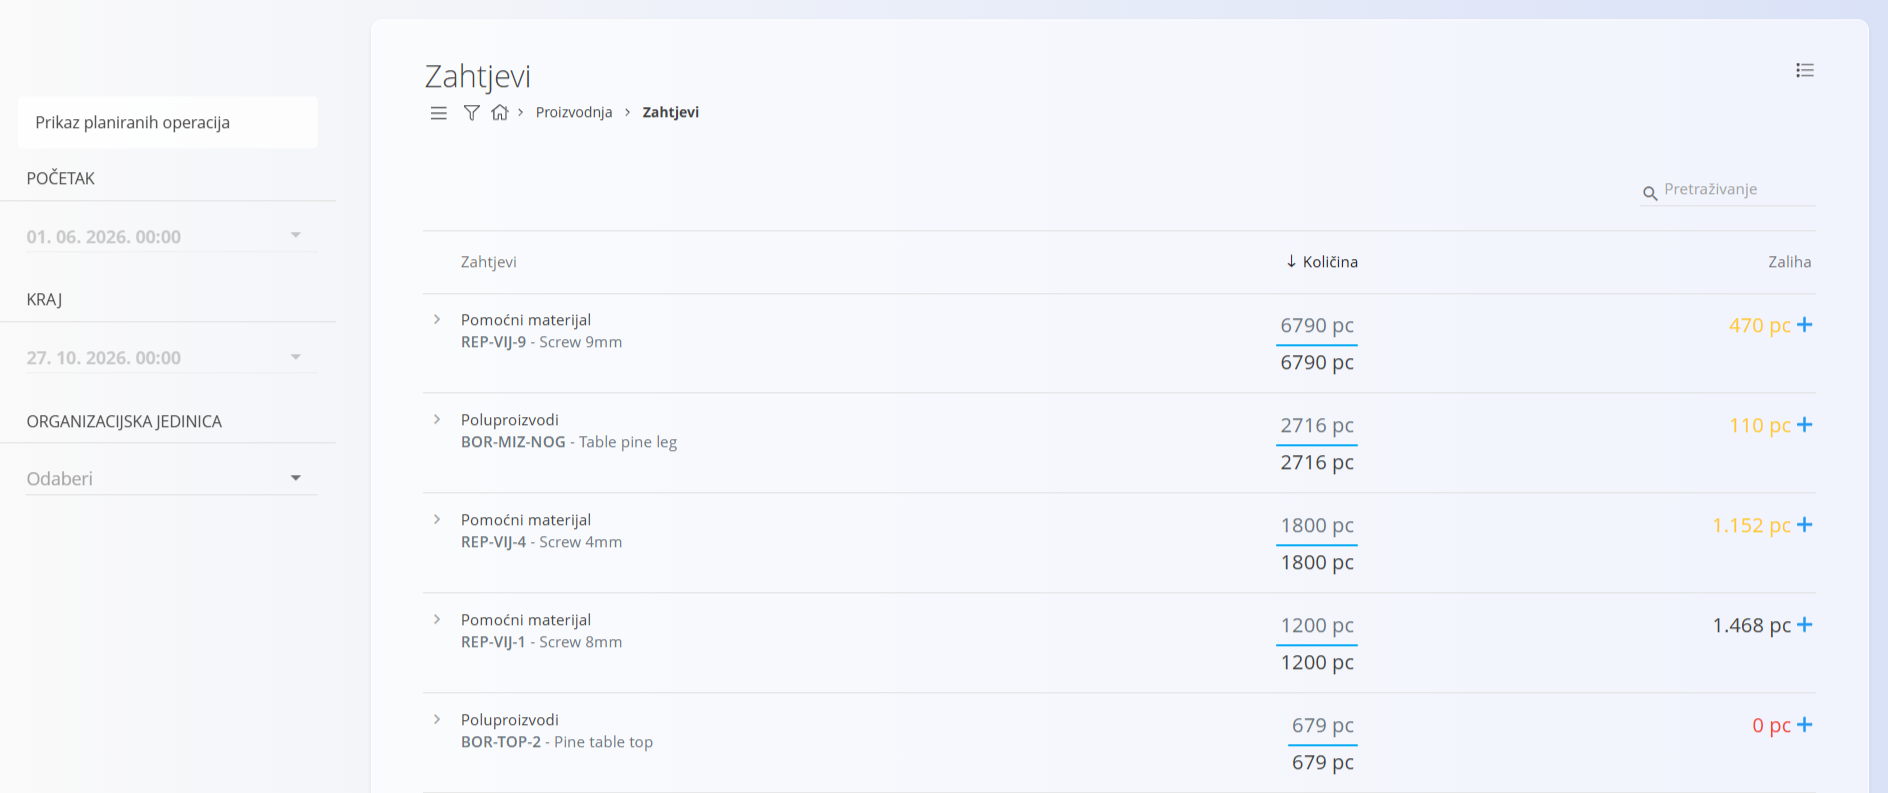
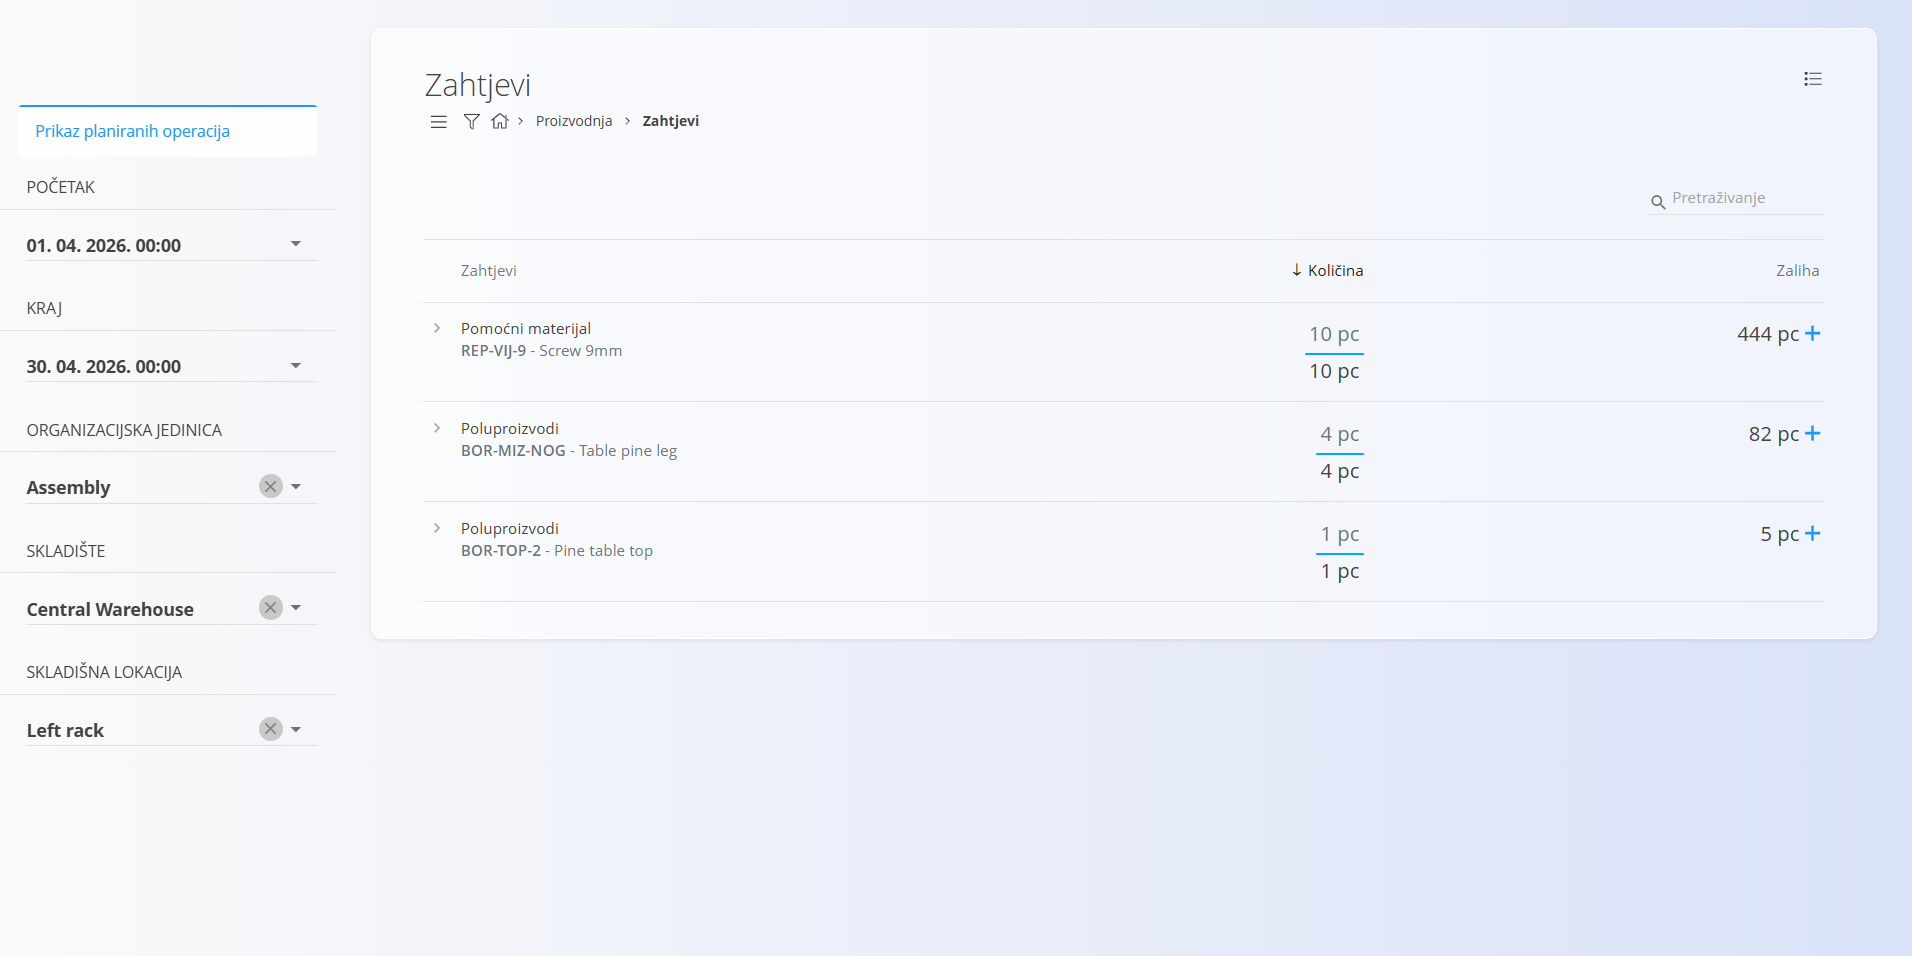
docs(en,sl,hr): document warehouse filters on requirements
Requirements now include Warehouse and Warehouse location filters that
limit the stock column, and organization unit filtering includes child
units. Update the text, the CSV export description, and the list
screenshots in all three languages.

diff --git a/hr/Domene/Proizvodnja/Dokumenti/Zahtjevi.md b/hr/Domene/Proizvodnja/Dokumenti/Zahtjevi.md
@@ -25,7 +25,7 @@ Za pristup ovoj stranici otvorite **Proizvodnja / Zahtjevi** u [navigaciji](../.
 |--------|------|
 | **Zahtjevi** | Naziv i šifra materijala. Svaki materijal možete proširiti kako biste vidjeli koje ga operacije troše. |
 | **Količina** | Prikazuje dvije vrijednosti:<br>• **Količina u intervalu** — potrebna količina u odabranom razdoblju (gornja vrijednost)<br>• **Ukupna količina** — ukupna planirana potrošnja svih operacija koje koriste taj materijal (donja vrijednost) |
-| **Zaliha** | Trenutno dostupna zaliha. <br>• Ako je zaliha manja od potrebne, prikazuje se **narančasto**, a ako je zaliha **0**, **crveno** (pogledajte [Oznaka bojom](#oznaka-bojom)). <br>• Klikom na ikonu **+** otvara se prozor za izradu **nove narudžbenice**. |
+| **Zaliha** | Trenutno dostupna zaliha. Ako su u filtrima odabrani skladište ili skladišna lokacija, prikazuje se samo zaliha u tom skladištu odnosno na toj lokaciji (uključujući podređene lokacije). <br>• Ako je zaliha manja od potrebne, prikazuje se **narančasto**, a ako je zaliha **0**, **crveno** (pogledajte [Oznaka bojom](#oznaka-bojom)). <br>• Klikom na ikonu **+** otvara se prozor za izradu **nove narudžbenice**. |
 
 ## Pregled popisa
 
@@ -39,9 +39,11 @@ Filtri se nalaze na lijevoj strani zaslona i omogućuju određivanje planiranih 
 
 - **Prikaz planiranih operacija** – kada je uključeno, zahtjevi se izračunavaju samo na temelju planiranih (još neizvedenih) operacija.  
 - **Početak / Kraj** – definira vremenski interval za izračun potrebnih količina.  
-- **Organizacijska jedinica** – filtriranje zahtjeva prema organizacijskoj jedinici.
+- **Organizacijska jedinica** – filtriranje zahtjeva prema organizacijskoj jedinici. Odabir jedinice uključuje i zahtjeve svih njezinih podređenih organizacijskih jedinica.
+- **Skladište** – ograničava zalihu u stupcu **Zaliha** na odabrano skladište.
+- **Skladišna lokacija** – ograničava zalihu u stupcu **Zaliha** na odabranu lokaciju i njezine podređene lokacije.
 
-Uključuju se samo materijali potrebni za operacije koje su u odabranom vremenskom razdoblju i organizacijskoj jedinici.
+Uključuju se samo materijali potrebni za operacije koje su u odabranom vremenskom razdoblju i organizacijskoj jedinici. Filtri skladišta i lokacije mijenjaju samo stupac **Zaliha**, a ne popis materijala.
 
 ### Pregled detalja potrošnje
 
@@ -77,4 +79,4 @@ Tako je moguća brza nadopuna zaliha izravno sa zaslona Zahtjevi.
 
 ## Izbornik
 
-Izbornik u gornjem desnom kutu stranice omogućuje izvoz popisa zahtjeva u CSV datoteku za daljnju analizu ili dijeljenje s drugim dionicima.
+Izbornik u gornjem desnom kutu stranice omogućuje izvoz popisa zahtjeva u CSV datoteku za daljnju analizu ili dijeljenje s drugim dionicima. Izvoz sadrži jednake zahtjeve kao filtrirani popis, uključujući one podređenih organizacijskih jedinica. Ostale radnje izbornika potražite u odjeljku [Radnje izbornika](../../../Zajednicko/Koncepti/RadnjeIzbornika.md).

diff --git a/sl/Domene/Proizvodnja/Dokumenti/Zahteve.md b/sl/Domene/Proizvodnja/Dokumenti/Zahteve.md
@@ -25,7 +25,7 @@ Do strani dostopate prek **Proizvodnja / Zahteve** v [navigaciji](../../../Skupn
 |--------|------|
 | **Zahteva** | Naziv in šifra materiala. Posamezen material lahko razširite za ogled operacij, ki ga porabljajo. |
 | **Količina** | Prikazani sta dve vrednosti:<br>• **Količina v intervalu** — potrebna količina v izbranem časovnem obdobju (zgornja vrednost)<br>• **Skupna količina** — celotna planirana poraba za vse operacije, ki uporabljajo ta material (spodnja vrednost) |
-| **Zaloga** | Trenutna razpoložljiva zaloga.<br>• Če je zaloge manj, kot je zahtevano, je vrednost prikazana **oranžno**, če je zaloga **0**, pa **rdeče** (glejte [Barvna koda](#barvna-koda)).<br>• Klik na ikono **+** odpre okno za ustvarjanje **novega nabavnega naloga**. |
+| **Zaloga** | Trenutna razpoložljiva zaloga. Če sta v filtrih izbrana skladišče ali skladiščna lokacija, je prikazana samo zaloga v tem skladišču oziroma na tej lokaciji (vključno s podrejenimi lokacijami).<br>• Če je zaloge manj, kot je zahtevano, je vrednost prikazana **oranžno**, če je zaloga **0**, pa **rdeče** (glejte [Barvna koda](#barvna-koda)).<br>• Klik na ikono **+** odpre okno za ustvarjanje **novega nabavnega naloga**. |
 
 ## Seznam zahtev
 
@@ -39,9 +39,11 @@ Filtri se nahajajo na levi strani zaslona in omogočajo prilagoditev, katere pla
 
 - **Prikaz planiranih operacij** – Če je omogočeno, se zahteve izračunajo samo na podlagi planiranih (še ne izvedenih) operacij.  
 - **Začetek / Konec** – Določa časovni interval za izračun potrebnih količin.  
-- **Organizacijska enota** – Filtrira zahteve po organizacijski enoti.
+- **Organizacijska enota** – Filtrira zahteve po organizacijski enoti. Izbira enote vključi tudi zahteve vseh njenih podrejenih organizacijskih enot.
+- **Skladišče** – Omeji zalogo v stolpcu **Zaloga** na izbrano skladišče.
+- **Skladiščna lokacija** – Omeji zalogo v stolpcu **Zaloga** na izbrano lokacijo in njene podrejene lokacije.
 
-V izračun so vključeni samo materiali, ki jih zahtevajo operacije znotraj izbranega časovnega intervala in organizacijske enote.
+V izračun so vključeni samo materiali, ki jih zahtevajo operacije znotraj izbranega časovnega intervala in organizacijske enote. Filtra skladišča in lokacije spremenita samo stolpec **Zaloga**, ne pa seznama materialov.
 
 ### Ogledati podrobnosti porabe
 
@@ -77,4 +79,4 @@ To omogoča hitro dopolnjevanje zaloge neposredno s strani **Zahteve**.
 
 ## Meni
 
-Meni v zgornjem desnem kotu strani ponuja možnost izvoza seznama zahtev v datoteko CSV za nadaljnjo analizo ali skupno rabo z drugimi deležniki.
+Meni v zgornjem desnem kotu strani ponuja možnost izvoza seznama zahtev v datoteko CSV za nadaljnjo analizo ali skupno rabo z drugimi deležniki. Izvoz vsebuje enake zahteve kot filtrirani seznam, tudi tiste podrejenih organizacijskih enot. Za druga dejanja v meniju glejte [Dejanja menija](../../../Skupno/Koncepti/MeniDejanja.md).

diff --git a/en/Domains/Production/Documents/Requirements.md b/en/Domains/Production/Documents/Requirements.md
@@ -25,7 +25,7 @@ To access this page, go to **Production / Requirements** in the [navigation](../
 |--------|-------------|
 | **Requirement** | The material name and code. You can expand each material to see which operations consume it. |
 | **Quantity** | Shows two values:<br>• **Interval quantity** — required quantity within the selected date range (upper value)<br>• **Total quantity** — full planned consumption for all operations using that material (lower value) |
-| **Stock** | Current available stock. <br>• If stock is lower than required, it appears in **orange**, and in **red** if stock is **0** (see [Color code](#color-code)). <br>• Clicking the **+** icon opens a window to create a **new supply order**. |
+| **Stock** | Current available stock. If a warehouse or warehouse location is selected in the filters, only the stock in that warehouse or location (including its child locations) is shown. <br>• If stock is lower than required, it appears in **orange**, and in **red** if stock is **0** (see [Color code](#color-code)). <br>• Clicking the **+** icon opens a window to create a **new supply order**. |
 
 ## Requirements list
 
@@ -39,9 +39,11 @@ Filters appear on the left side of the screen and allow you to adjust which plan
 
 - **Show planned operations** – When enabled, requirements are calculated based only on planned (not yet executed) operations.  
 - **Start / End** – Defines the date interval used to calculate required quantities.  
-- **Organization unit** – Filters requirements by organizational unit.
+- **Organization unit** – Filters requirements by organizational unit. Selecting a unit also includes the requirements of all its child organization units.
+- **Warehouse** – Limits the stock shown in the **Stock** column to the selected warehouse.
+- **Warehouse location** – Limits the stock shown in the **Stock** column to the selected location and its child locations.
 
-Only materials required by operations that fall within the selected time and organizational unit range are included.
+Only materials required by operations that fall within the selected time and organizational unit range are included. The warehouse and location filters change only the **Stock** column, not which materials are listed.
 
 ### View consumption details
 
@@ -77,5 +79,5 @@ This provides quick replenishment directly from the Requirements screen.
 
 ## Menu
 
-The menu in the top right corner of the page gives the option to export the list of requirements to a CSV file for further analysis or sharing with other stakeholders.
+The menu in the top right corner of the page gives the option to export the list of requirements to a CSV file for further analysis or sharing with other stakeholders. The export contains the same requirements as the filtered list, including those of child organization units. For other menu actions, see [Menu actions](../../../Common/Concepts/MenuActions.md).
 
